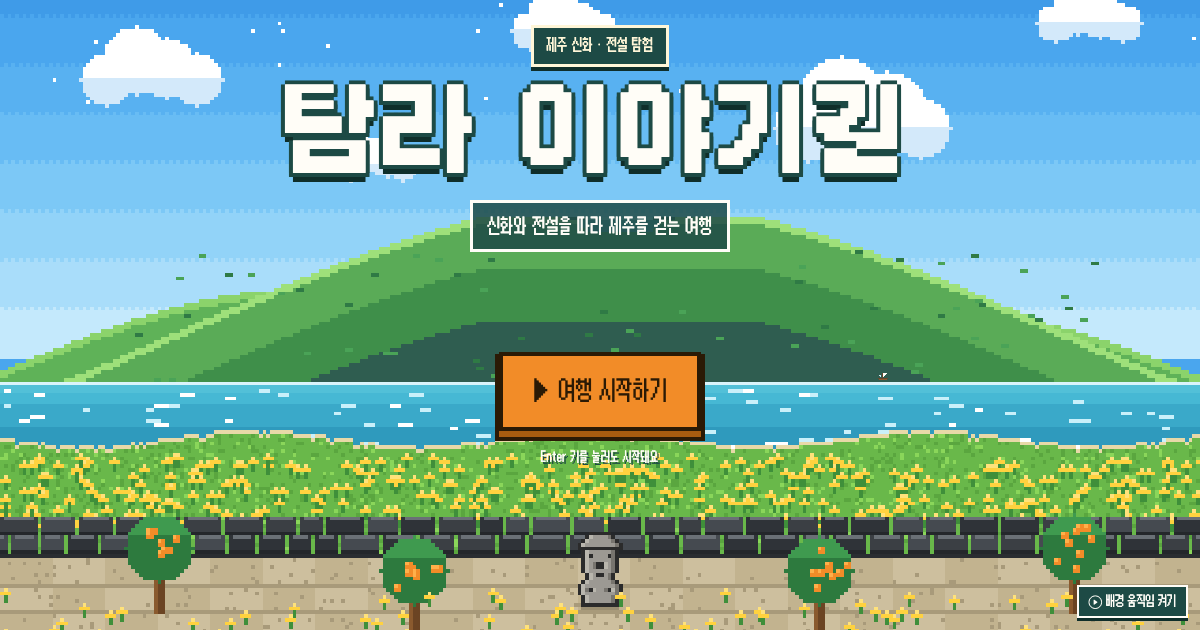
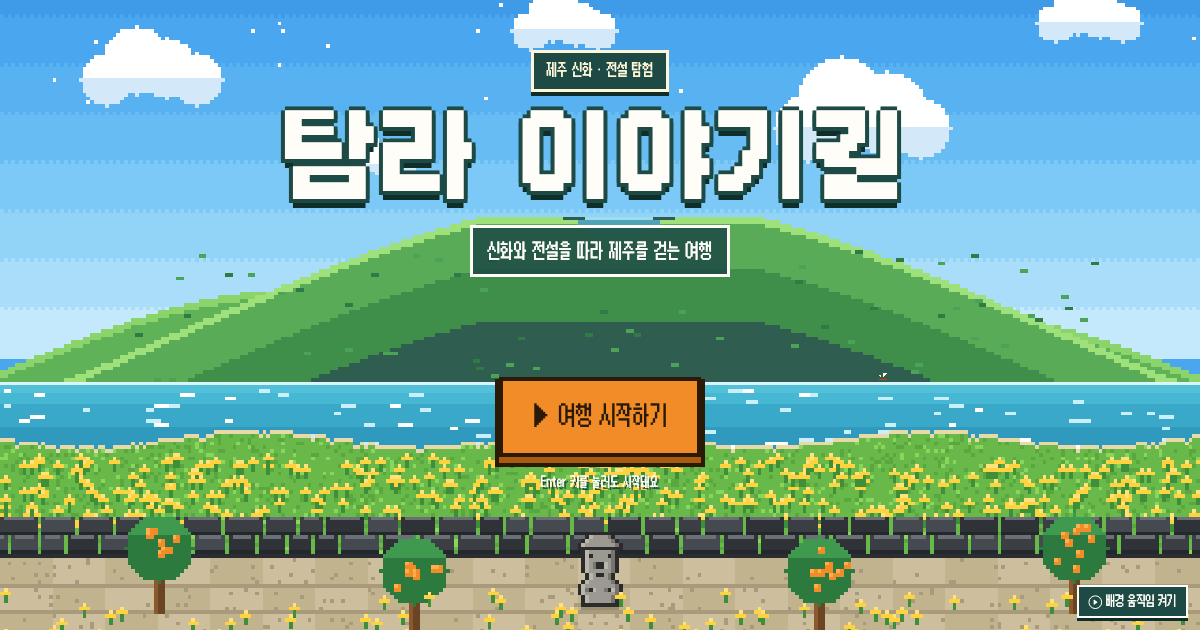
style: lower landing title group slightly

Changed region(s): [[0.2158, 0.0302, 0.7708, 0.4524], [0.4008, 0.5429, 0.5858, 0.7841]]

diff --git a/jeju-ip-sample-solution/src/styles/landing.css b/jeju-ip-sample-solution/src/styles/landing.css
@@ -30,7 +30,7 @@
 .landing-ui {
   position: relative; z-index: 1; min-height: inherit;
   display: flex; flex-direction: column; align-items: center; text-align: center;
-  padding: clamp(1rem, 4vh, 2.5rem) 1rem 2rem; gap: .7rem;
+  padding: clamp(2rem, 8vh, 3.5rem) 1rem 2rem; gap: .7rem;
 }
 .landing-tag {
   margin: 0; padding: .25rem .8rem; font-size: clamp(.8rem, 2.2vw, 1rem); color: #fff6d8;
